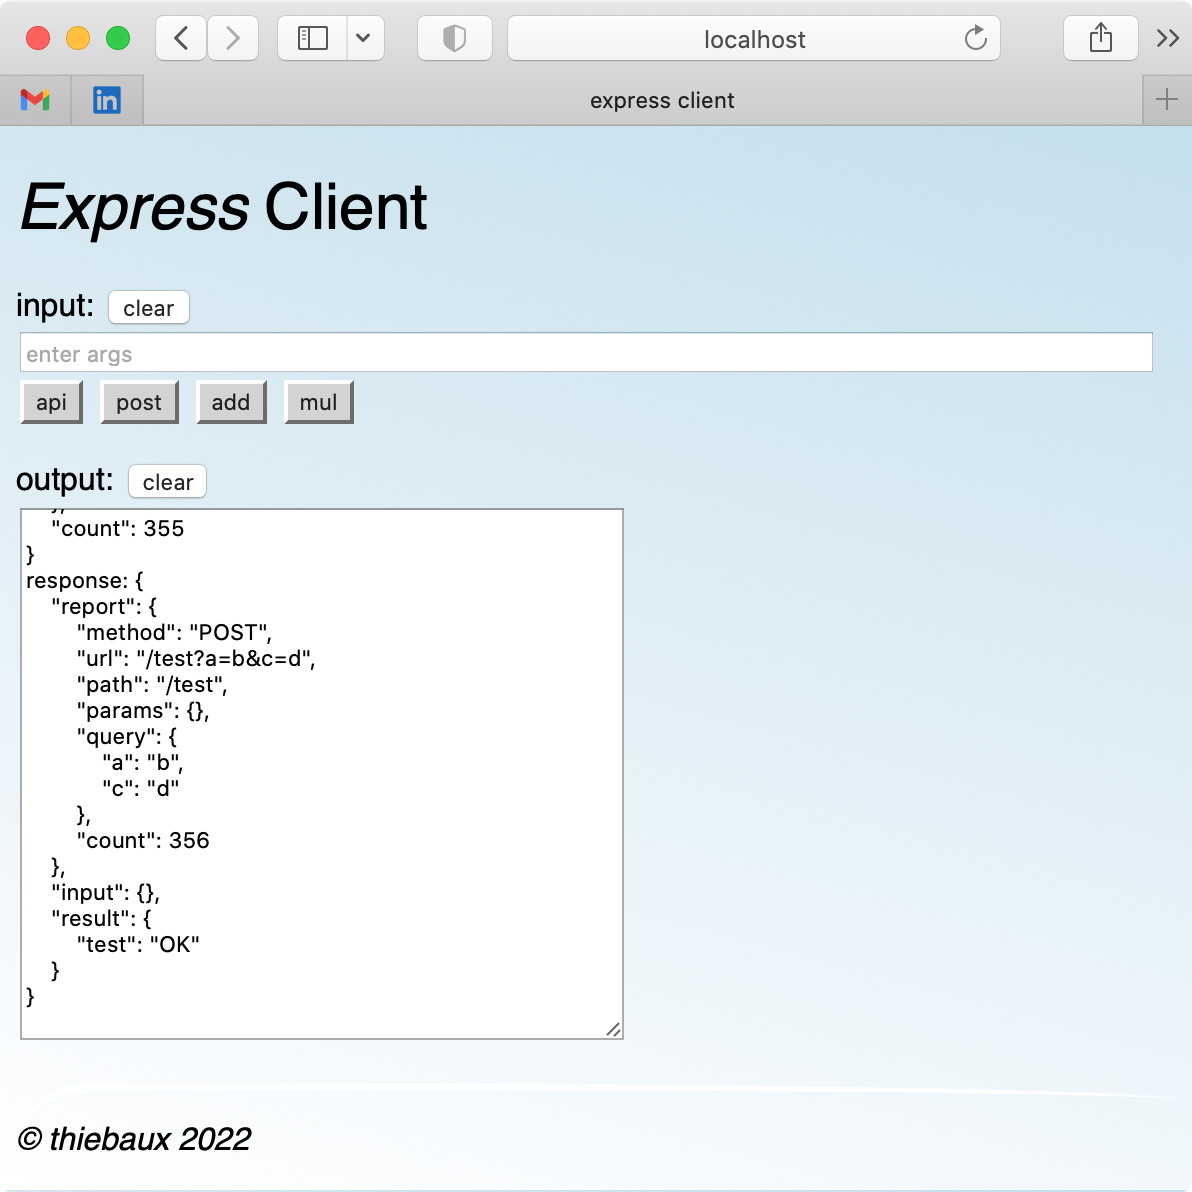
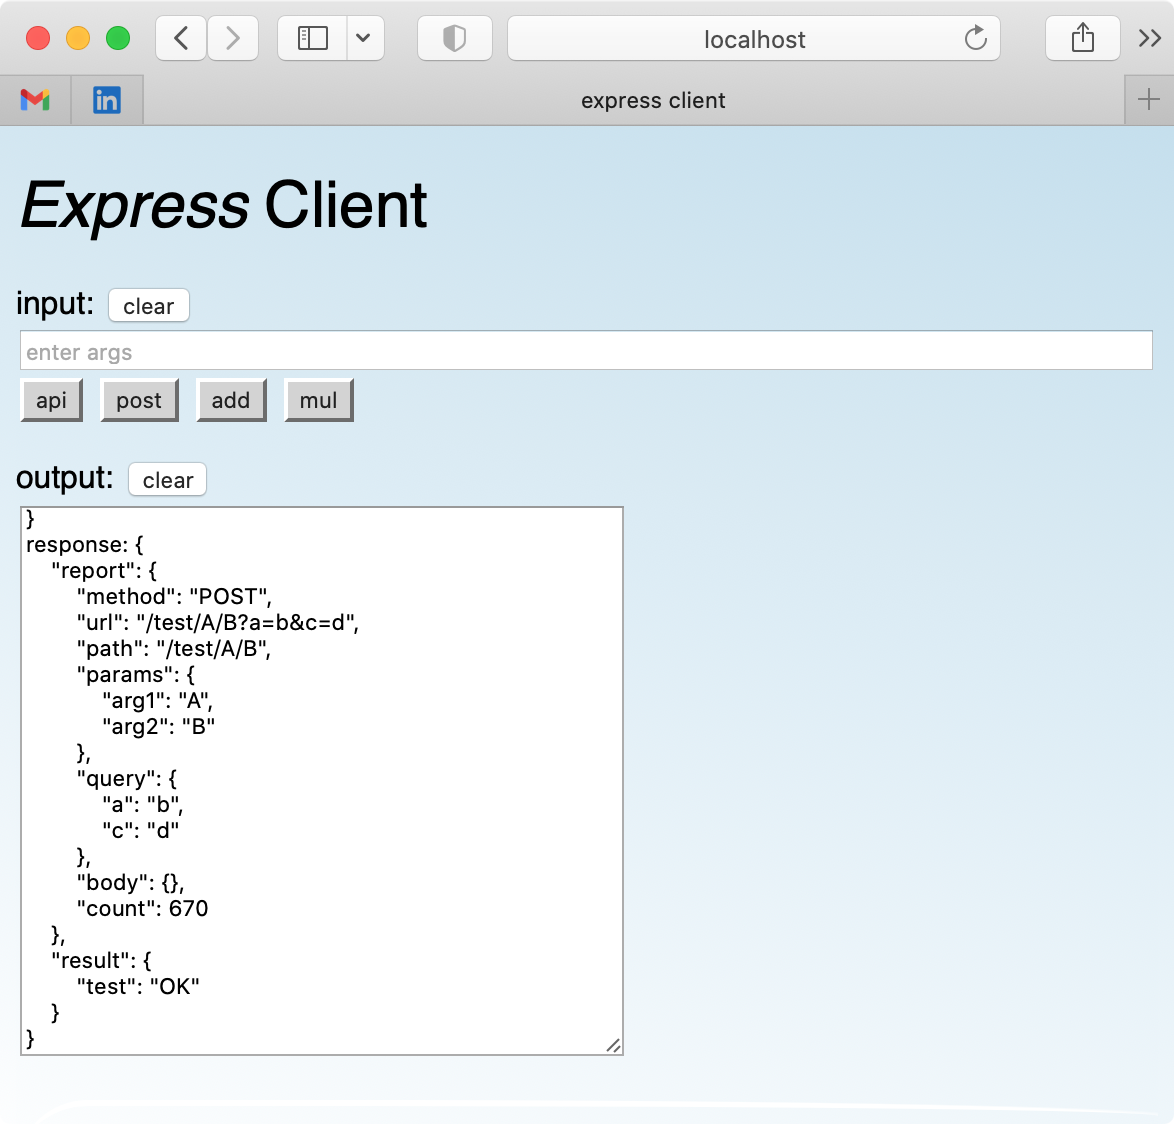
image update

diff --git a/express/client.js b/express/client.js
@@ -21,8 +21,8 @@ if( 1 )	{
 	fetch_get_request( "api/A/B", output_log_response );
 	fetch_get_request( "api/A/B?a=b&c=d", output_log_response );
 }
-if( 0 )	{
-	fetch_post_request( "test?a=b&c=d", {}, output_log_response );
+if( 1 )	{
+	fetch_post_request( "test/A/B?a=b&c=d", {}, output_log_response );
 	fetch_post_request( "RPC", { rpc: "rpc_stub", cmd: null, args: [] }, output_log_response );
 	fetch_post_request( "RPC", { rpc: "no_rpc" }, output_log_response );
 	submit_command( "add" );

diff --git a/README.md b/README.md
@@ -167,6 +167,6 @@ server.post( '/RPC', ( request, response ) => {
 });
 ```
 
-![image of express client](./images/express_client.png)
+![<img src="express_client.png" width="250"/>](./images/express_client.png)
 
 
